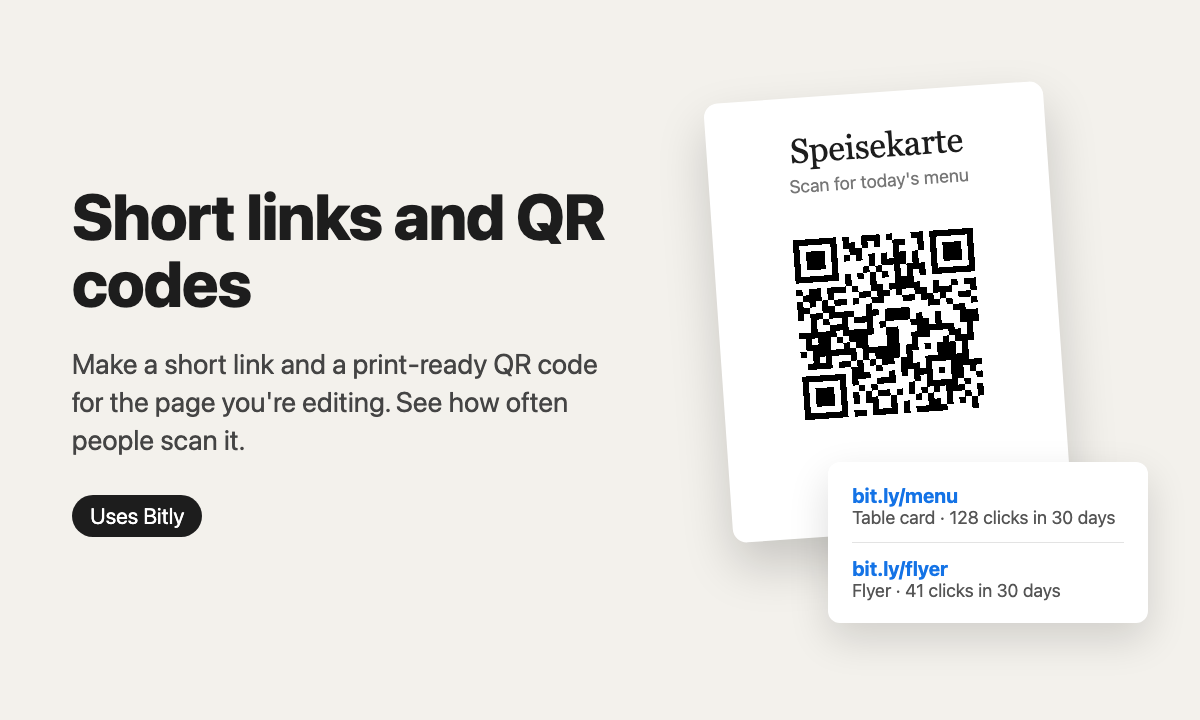
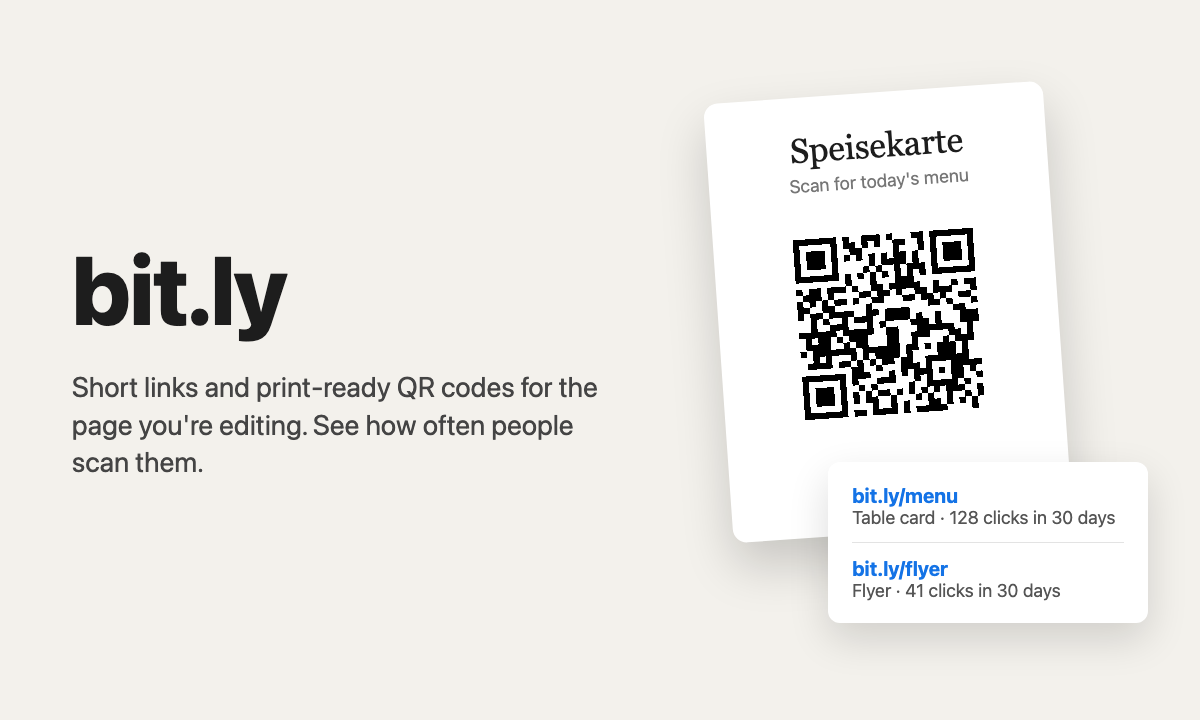
fix: drag the QR code into the page with a mouse, drop the alt text field, call the panel bit.ly
- keep the pointer capture so Chrome's iframe mouse routing doesn't strand the SDK drag
- insert the QR image without alt; sites handle alt text in the editor
- rename the panel, marketplace row and card to bit.ly

Changed region(s): [[0.0617, 0.2444, 0.5242, 0.7639]]

diff --git a/tools/bitly/panel.js b/tools/bitly/panel.js
@@ -2,6 +2,7 @@
 import { createBitly } from './api.js';
 import createSite from './site.js';
 import createTokenStore from './storage.js';
+import keepPointerCapture from './capture.js';
 import {
   CAMPAIGNS, hostOrigin, pageUrl, isDraft, withCampaign, isSamePage, findExisting, campaignOf,
   safeHref, qrFileName, mediaPath, imageHtml, linkHtml, errorMessage, bare,
@@ -104,7 +105,7 @@ export default function mountPanel(root, {
     const href = safeHref(link.link);
     if (!href) return;
     state.selected = {
-      id: link.id, link: href, alt: `QR code: ${bare(state.url)}`, withLink: true, prepared: null,
+      id: link.id, link: href, withLink: true, prepared: null,
     };
     render();
     try {
@@ -130,7 +131,7 @@ export default function mountPanel(root, {
     say('Uploading the QR code…');
     try {
       const src = await site.upload(mediaPath(path, sel.prepared.file.name), sel.prepared.file);
-      actions.sendHTML(imageHtml({ src, alt: sel.alt.trim() }) + (sel.withLink ? linkHtml(sel.link) : ''));
+      actions.sendHTML(imageHtml(src) + (sel.withLink ? linkHtml(sel.link) : ''));
       say('Sent to the page at the cursor.');
     } catch {
       say("Couldn't upload the QR code. Try again, or drag it into the page.");
@@ -185,10 +186,10 @@ export default function mountPanel(root, {
       stopDrag();
       const { id } = drag;
       actions.makeDraggable({
-        element: handle,
+        element: keepPointerCapture(handle),
         getData: () => ({ files: [prepared.file] }),
         onResult: ({ ok, error }) => {
-          if (ok) say('Added to the page. Add alt text to the image in the editor.');
+          if (ok) say('Added to the page.');
           else if (error !== 'cancelled') say("Couldn't add the QR code to the page.");
         },
       }).then((dispose) => {
@@ -200,9 +201,6 @@ export default function mountPanel(root, {
       'div',
       { className: 'bl-qr' },
       handle,
-      el('div', { className: 'bl-field' }, el('label', { htmlFor: 'bl-alt' }, 'Alt text'), el('input', {
-        type: 'text', id: 'bl-alt', value: sel.alt, oninput: (e) => { sel.alt = e.target.value; },
-      })),
       el(
         'div',
         { className: 'bl-check' },

diff --git a/marketplace/card.html b/marketplace/card.html
@@ -7,9 +7,8 @@
   * { box-sizing: border-box; margin: 0; }
   body { width: 1200px; height: 720px; font-family: "Adobe Clean", system-ui, -apple-system, sans-serif; background: #f3f1ec; color: #1d1d1d; overflow: hidden; }
   .card { display: grid; grid-template-columns: 560px 1fr; height: 100%; padding: 72px; gap: 56px; align-items: center; }
-  h1 { font-size: 64px; line-height: 1.05; font-weight: 800; letter-spacing: -1px; }
+  h1 { font-size: 96px; line-height: 1.05; font-weight: 800; letter-spacing: -1px; }
   p { font-size: 28px; line-height: 1.35; margin-top: 28px; color: #444; }
-  .tag { display: inline-block; margin-top: 36px; font-size: 22px; padding: 8px 18px; border-radius: 999px; background: #1d1d1d; color: #fff; }
   .stage { position: relative; height: 100%; }
   .tent { position: absolute; left: 30px; top: 20px; width: 340px; height: 440px; background: #fff; border-radius: 14px; box-shadow: 0 24px 50px rgb(0 0 0 / 18%); padding: 34px; text-align: center; transform: rotate(-4deg); }
   .tent h2 { font-family: Georgia, serif; font-size: 34px; font-weight: 400; }
@@ -25,9 +24,8 @@
 <body>
 <div class="card">
   <div>
-    <h1>Short links and QR codes</h1>
-    <p>Make a short link and a print-ready QR code for the page you're editing. See how often people scan it.</p>
-    <span class="tag">Uses Bitly</span>
+    <h1>bit.ly</h1>
+    <p>Short links and print-ready QR codes for the page you're editing. See how often people scan them.</p>
   </div>
   <div class="stage">
     <div class="tent">

diff --git a/tools/bitly/capture.js b/tools/bitly/capture.js
@@ -1,0 +1,11 @@
+/*
+ * Chrome sends every mouse event to the iframe where the button went down, until it goes
+ * up. The SDK drag (da-nx nx/utils/sdk/drag.js) releases the pointer capture after
+ * dragStart for mouse drags and expects the host overlay to get the rest; it never does,
+ * so the drop doesn't finish. Keeping the capture sends moves and the release through the
+ * extension, the same path the SDK uses for touch, and the host maps the points.
+ */
+export default function keepPointerCapture(element) {
+  element.releasePointerCapture = () => {};
+  return element;
+}

diff --git a/tools/bitly/bitly.html b/tools/bitly/bitly.html
@@ -2,7 +2,7 @@
 <html lang="en">
   <head>
     <meta charset="utf-8">
-    <title>Short links and QR codes</title>
+    <title>bit.ly</title>
     <meta name="viewport" content="width=device-width, initial-scale=1">
     <meta http-equiv="Content-Security-Policy" content="default-src 'self'; script-src 'self' https://da.live; style-src 'self' https://da.live; img-src 'self' data:; font-src https://da.live; connect-src 'self' https://api-ssl.bitly.com https://admin.da.live https://admin.hlx.page https://api.aem.live">
     <link rel="icon" href="data:,">

diff --git a/tools/bitly/model.js b/tools/bitly/model.js
@@ -72,7 +72,8 @@ export function mediaPath(path, fileName) {
 
 const escape = (s) => s.replace(/&/g, '&amp;').replace(/"/g, '&quot;').replace(/</g, '&lt;').replace(/>/g, '&gt;');
 
-export const imageHtml = ({ src, alt }) => `<p><img src="${escape(src)}" alt="${escape(alt)}"></p>`;
+// No alt: sites handle alt text differently, so authors add it in the editor.
+export const imageHtml = (src) => `<p><img src="${escape(src)}"></p>`;
 
 export const bare = (url) => url.replace(/^https:\/\//, '');
 

diff --git a/test/capture.test.js b/test/capture.test.js
@@ -1,6 +1,6 @@
-import { describe, it } from 'node:test';
+import { it, describe } from 'node:test';
 import assert from 'node:assert/strict';
-import { keepPointerCapture } from '../tools/bitly/capture.js';
+import keepPointerCapture from '../tools/bitly/capture.js';
 
 describe('keepPointerCapture', () => {
   it('keeps the capture when the SDK hands a mouse drag to the host', () => {

diff --git a/README.md b/README.md
@@ -1,4 +1,4 @@
-# Short links and QR codes for Experience Workspace
+# bit.ly for Experience Workspace
 
 A library plugin for [Adobe Experience Workspace](https://da.live) (DA) that makes
 [Bitly](https://bitly.com) short links and QR codes for the page you are editing.
@@ -16,7 +16,7 @@ from the flyer. The panel shows how often each link was clicked in the last 30 d
   exists already, Bitly returns it and no new one is made.
 - Copy a link.
 - Show a QR code for a link, then:
-  - insert it at the cursor, as an image with alt text and, optionally, the link below it,
+  - insert it at the cursor, as an image and, optionally, the link below it,
   - drag it into the page,
   - download it as SVG (for print) or PNG.
 
@@ -41,7 +41,7 @@ Add a row to the `library` sheet of the site config (`https://da.live/config#/{o
 
 | title | path | icon |
 |---|---|---|
-| Short links and QR codes | `https://main--ew-bitly--benpeter.preview.da.live/tools/bitly/bitly.html` | `https://main--ew-bitly--benpeter.preview.da.live/tools/bitly/icon.svg` |
+| bit.ly | `https://main--ew-bitly--benpeter.preview.da.live/tools/bitly/bitly.html` | `https://main--ew-bitly--benpeter.preview.da.live/tools/bitly/icon.svg` |
 
 Leave `experience` empty: the plugin runs in the side panel (`inline`).
 
@@ -56,6 +56,7 @@ doesn't create links.
 - Publish the page before you print the code.
 - Sites on the new AEM API (Helix 6) are detected, but this version is tested on DA
   sites with the classic setup only.
+- The inserted or dropped QR image has no alt text. Add it in the editor, the way your site handles alt text.
 
 ## Develop
 
